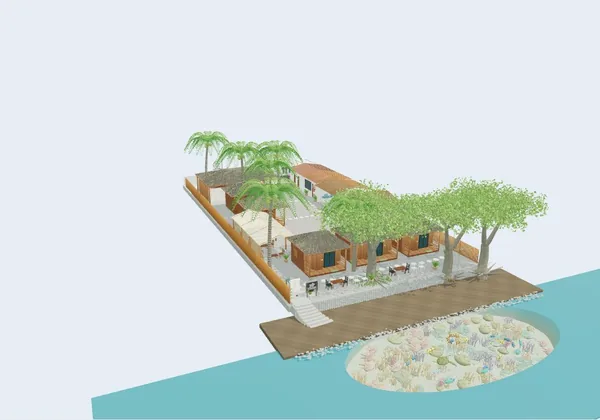
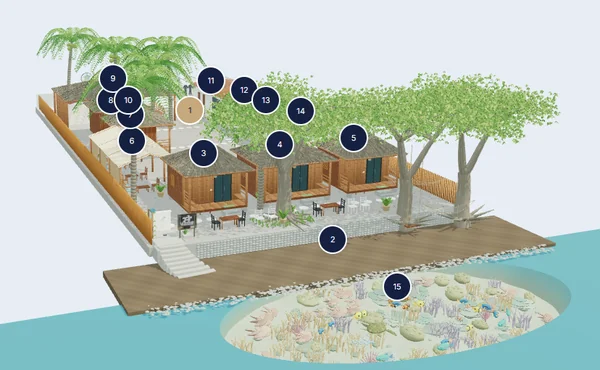
Refresh resort home preview and center bilingual introduction

diff --git a/scripts/build-resort-pages.js b/scripts/build-resort-pages.js
@@ -9,7 +9,7 @@ const locales = {
     title:'Visite 3D du resort à Dauin | La Tortue Diving Center',
     description:'Explorez La Tortue à Dauin en 3D : cottages, chambres, restaurant, plage et récif. Découvrez les espaces du resort et leurs photos avant votre séjour.',
     heading:'Découvrez La Tortue avant votre séjour',
-    text:'Des cottages à la plage, repérez les espaces du resort et explorez le récif dans notre visite interactive.',
+    text:'Des cottages à la plage, repérez les espaces du resort et explorez-les en 3D grâce à notre visite interactive.',
     cta:'Explorer le resort en 3D', footer:'Visite 3D du resort',
     roomLink:'Situer les cottages dans le resort', diveLink:'Explorer le resort et son récif',
     imageAlt:'Vue 3D des cottages, des espaces communs et de la plage de La Tortue à Dauin',
@@ -23,7 +23,7 @@ const locales = {
     title:'3D Resort Tour in Dauin | La Tortue Diving Center',
     description:'Explore La Tortue in Dauin in 3D: cottages, rooms, restaurant, beach and reef. Discover the resort layout and real photos before your stay.',
     heading:'Discover La Tortue before your stay',
-    text:'From the cottages to the beach, find your way around the resort and explore the reef in our interactive tour.',
+    text:'From the cottages to the beach, find your way around the resort and explore in 3d with our interactive tour.',
     cta:'Explore the resort in 3D', footer:'3D resort tour',
     roomLink:'Find the cottages in the resort', diveLink:'Explore the resort and its reef',
     imageAlt:'3D view of the cottages, shared spaces and beach at La Tortue in Dauin',
@@ -35,7 +35,7 @@ const locales = {
 };
 const escape = text => text.replace(/&/g,'&amp;').replace(/"/g,'&quot;').replace(/</g,'&lt;');
 function promo(c) {
-  return `<section class="resort-promo sand" aria-labelledby="resort-promo-title"><div class="container resort-promo-grid"><a href="${c.url}" class="resort-promo-image" tabindex="-1" aria-hidden="true"><img src="/resort-3d/assets/preview.webp" srcset="/resort-3d/assets/preview-600.webp 600w, /resort-3d/assets/preview.webp 1000w" sizes="(max-width: 720px) 90vw, 50vw" width="1000" height="700" alt="" loading="lazy" decoding="async"></a><div><p class="resort-promo-label">LA TORTUE · DAUIN</p><h2 id="resort-promo-title">${c.heading}</h2><p>${c.text}</p><a class="btn btn-primary" href="${c.url}">${c.cta} <span aria-hidden="true">↗</span></a></div></div></section>`;
+  return `<section class="resort-promo sand" aria-labelledby="resort-promo-title"><div class="container resort-promo-grid"><a href="${c.url}" class="resort-promo-image" tabindex="-1" aria-hidden="true"><img src="/resort-3d/assets/preview.webp?v=29" srcset="/resort-3d/assets/preview-600.webp?v=29 600w, /resort-3d/assets/preview.webp?v=29 828w" sizes="(max-width: 720px) 90vw, 50vw" width="828" height="510" alt="" loading="lazy" decoding="async"></a><div class="resort-promo-copy"><h2 id="resort-promo-title">${c.heading}</h2><p>${c.text}</p><a class="btn btn-primary" href="${c.url}">${c.cta} <span aria-hidden="true">↗</span></a></div></div></section>`;
 }
 function insertBefore(html, marker, content) {
   if (!html.includes(marker)) throw new Error(`Resort integration marker missing: ${marker}`);
@@ -65,7 +65,7 @@ async function buildResortPages(root, dist, env=process.env) {
       // The home slider is the first section; the preview follows it.
       const index=page.indexOf('</section>');if(index<0)throw new Error('Missing home hero');
       page=page.slice(0,index+10)+'\n'+promo(c)+page.slice(index+10);
-      return page.replace('</head>','<link rel="stylesheet" href="/resort-3d/promo.css?v=28"></head>');
+      return page.replace('</head>','<link rel="stylesheet" href="/resort-3d/promo.css?v=29"></head>');
     });
     await edit('cottages.html',page=>insertBefore(page,'<div class="room-section">',`<p class="section-cta"><a class="btn btn-outline" href="${c.url}?stop=rooms">${c.roomLink}</a></p>\n`));
     await edit('diving.html',page=>insertBefore(page,'<h2 id="ssi-courses">',`<p class="section-cta"><a class="btn btn-outline" href="${c.url}?stop=reef">${c.diveLink}</a></p>\n`));

diff --git a/resort-3d/promo.css b/resort-3d/promo.css
@@ -4,6 +4,6 @@
 .resort-promo img { display:block; width:100%; height:auto; }
 .resort-promo h2 { margin:0 0 18px; }
 .resort-promo p { margin:0 0 24px; }
-.resort-promo .resort-promo-label { font-size:12px; letter-spacing:2px; margin-bottom:14px; }
+.resort-promo-copy { text-align:center; }
 .resort-promo .btn { white-space:normal; }
 @media(max-width:720px) { .resort-promo{padding:32px 0}.resort-promo-grid{grid-template-columns:1fr;gap:24px} }
